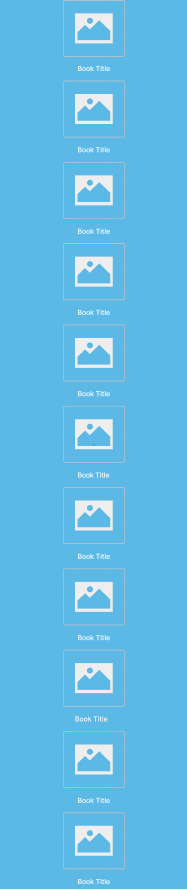
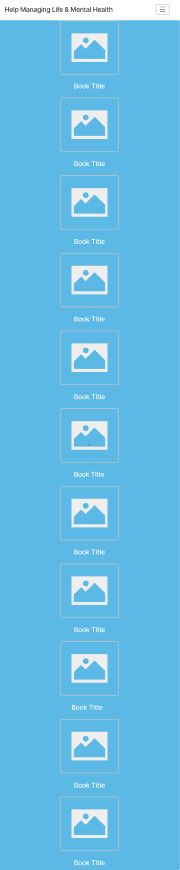
Mobil layouts corrected, added mobil layout 5. Need to figure out how to make the images line up correctly.

Changed region(s): [[0.0, 0.0, 1.0, 1.0]]

diff --git a/public_html/documentation/milestone-2.html b/public_html/documentation/milestone-2.html
@@ -72,6 +72,8 @@
     <img src="../images/mobil1.jpg" alt="mobil1" >
     <img src="../images/mobil2.jpg" alt="mobil2" >
     <img src="../images/mobil3.jpg" alt="mobil3" >
+    <img src="../images/mobil4.jpg" alt="mobil4" >
+    <img src="../images/mobil5.jpg" alt="mobil5" >
 </div>
 
 
